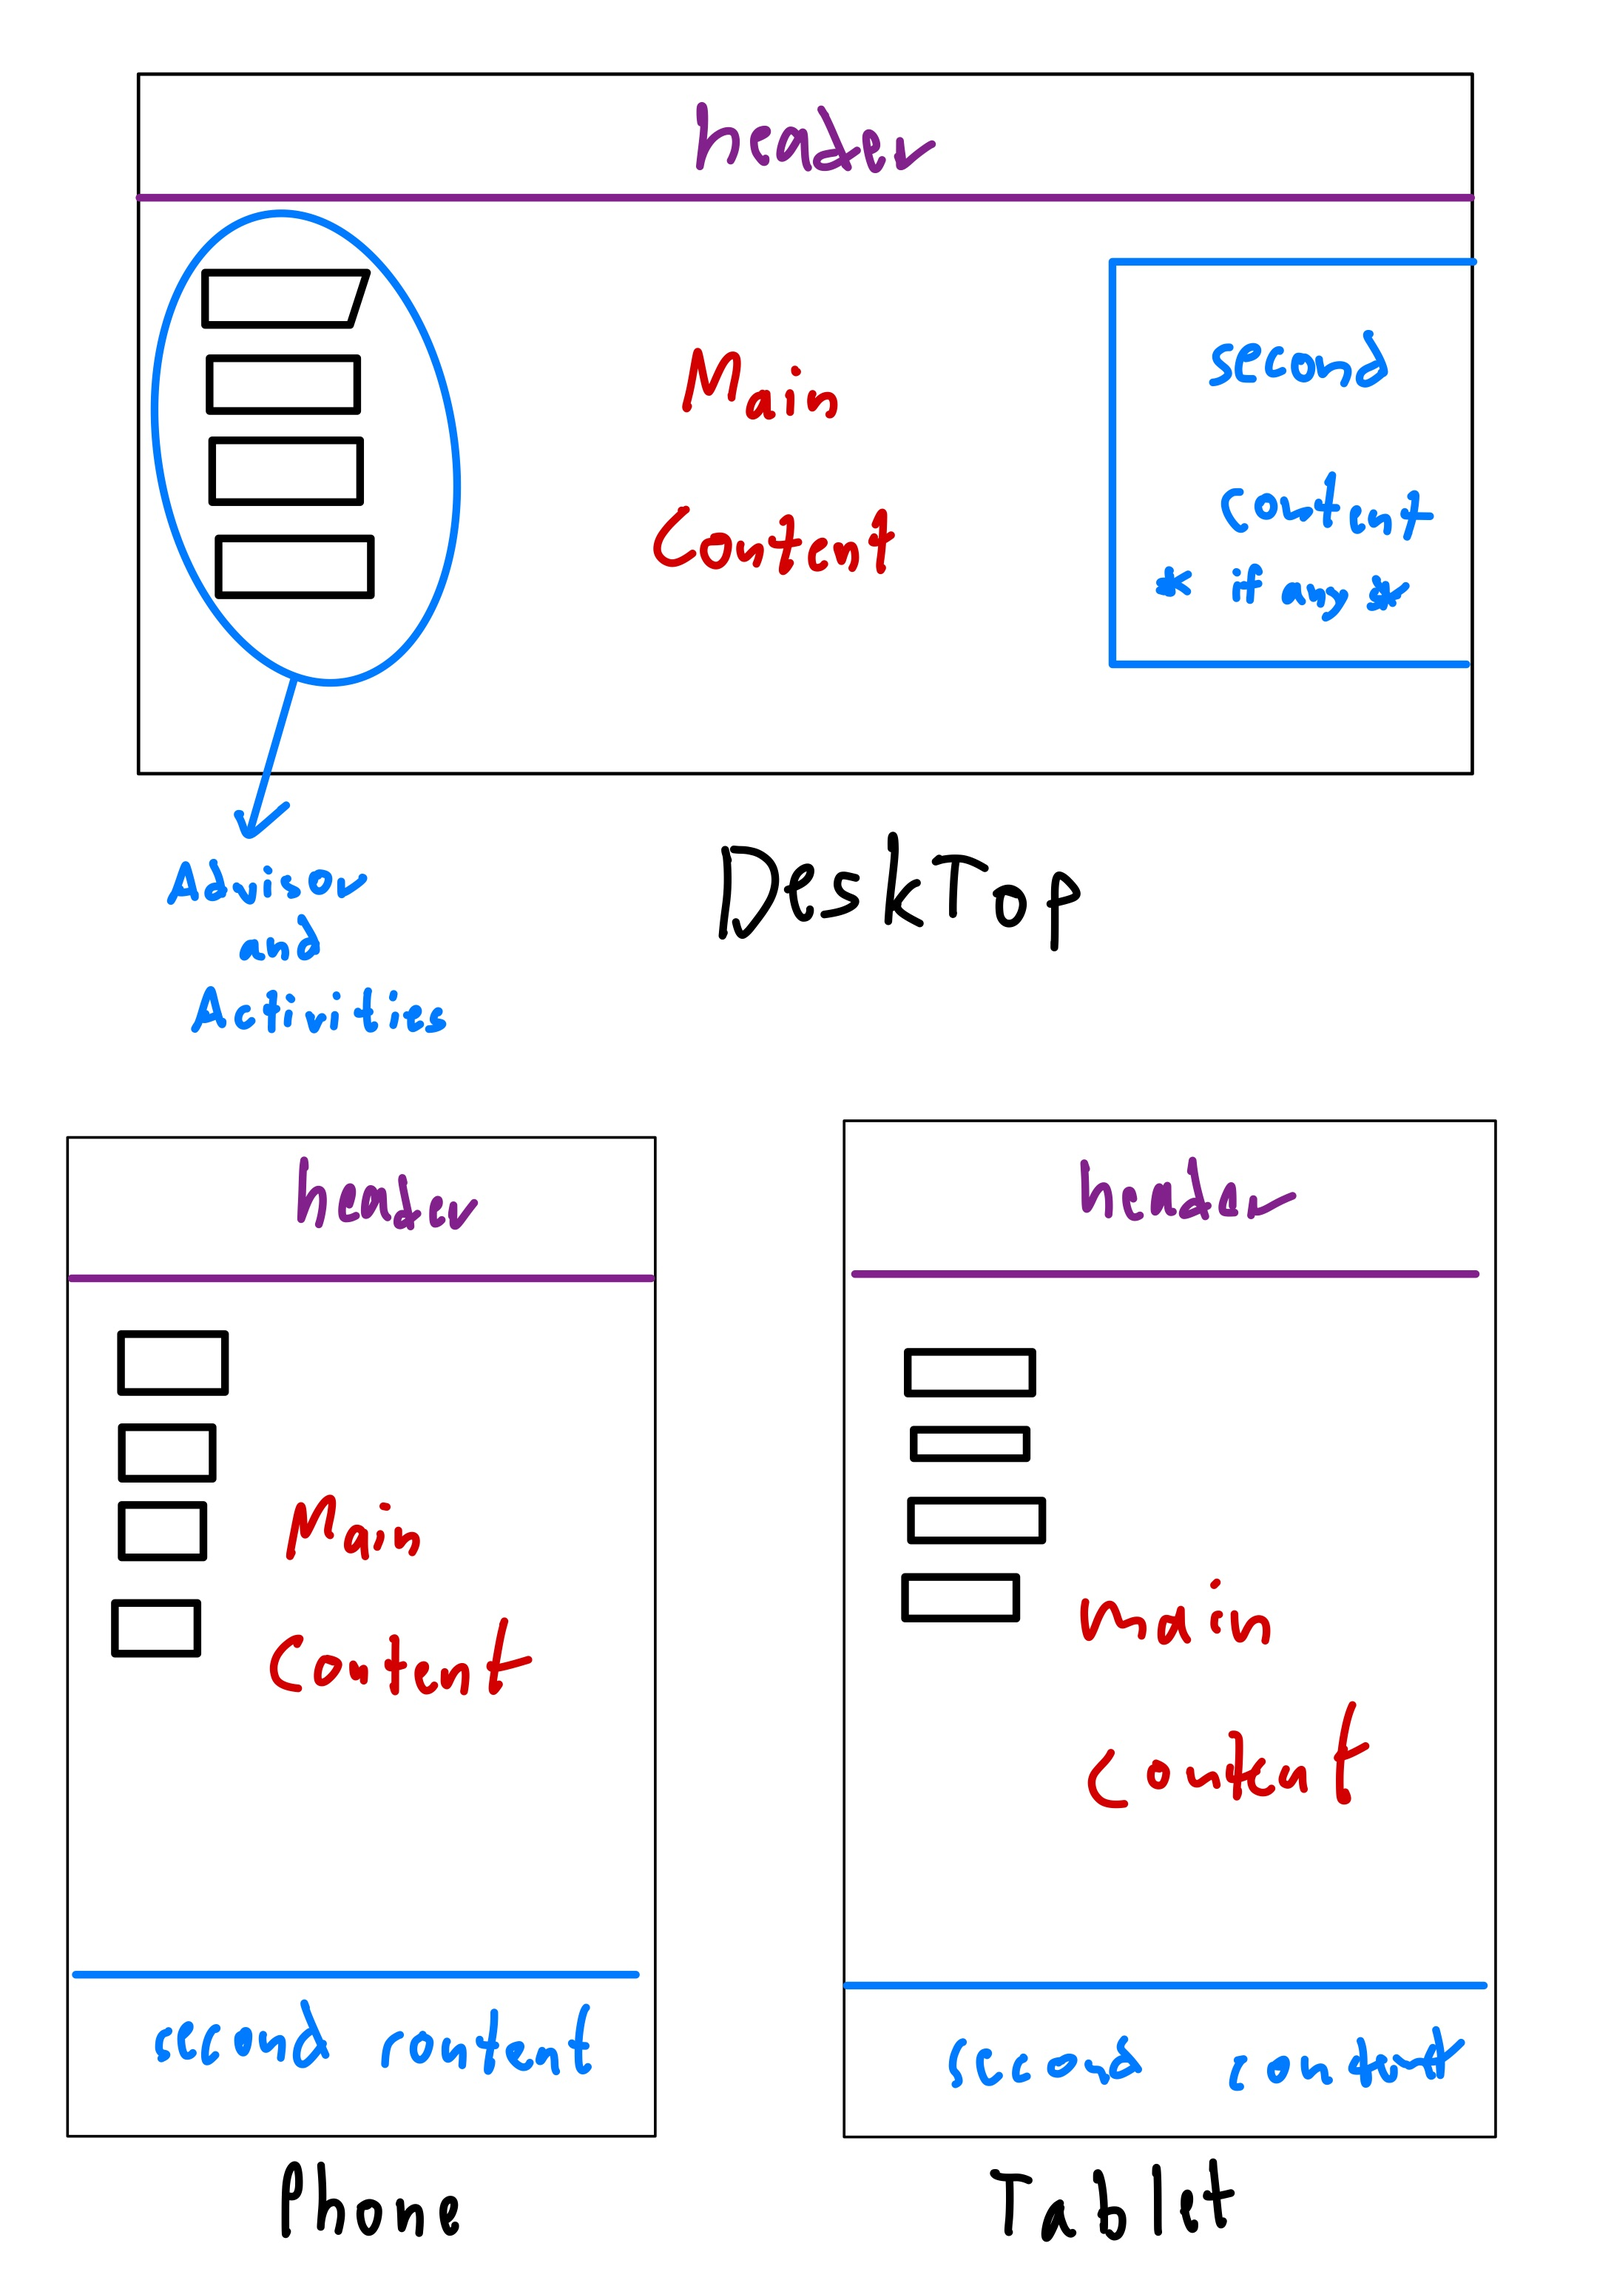
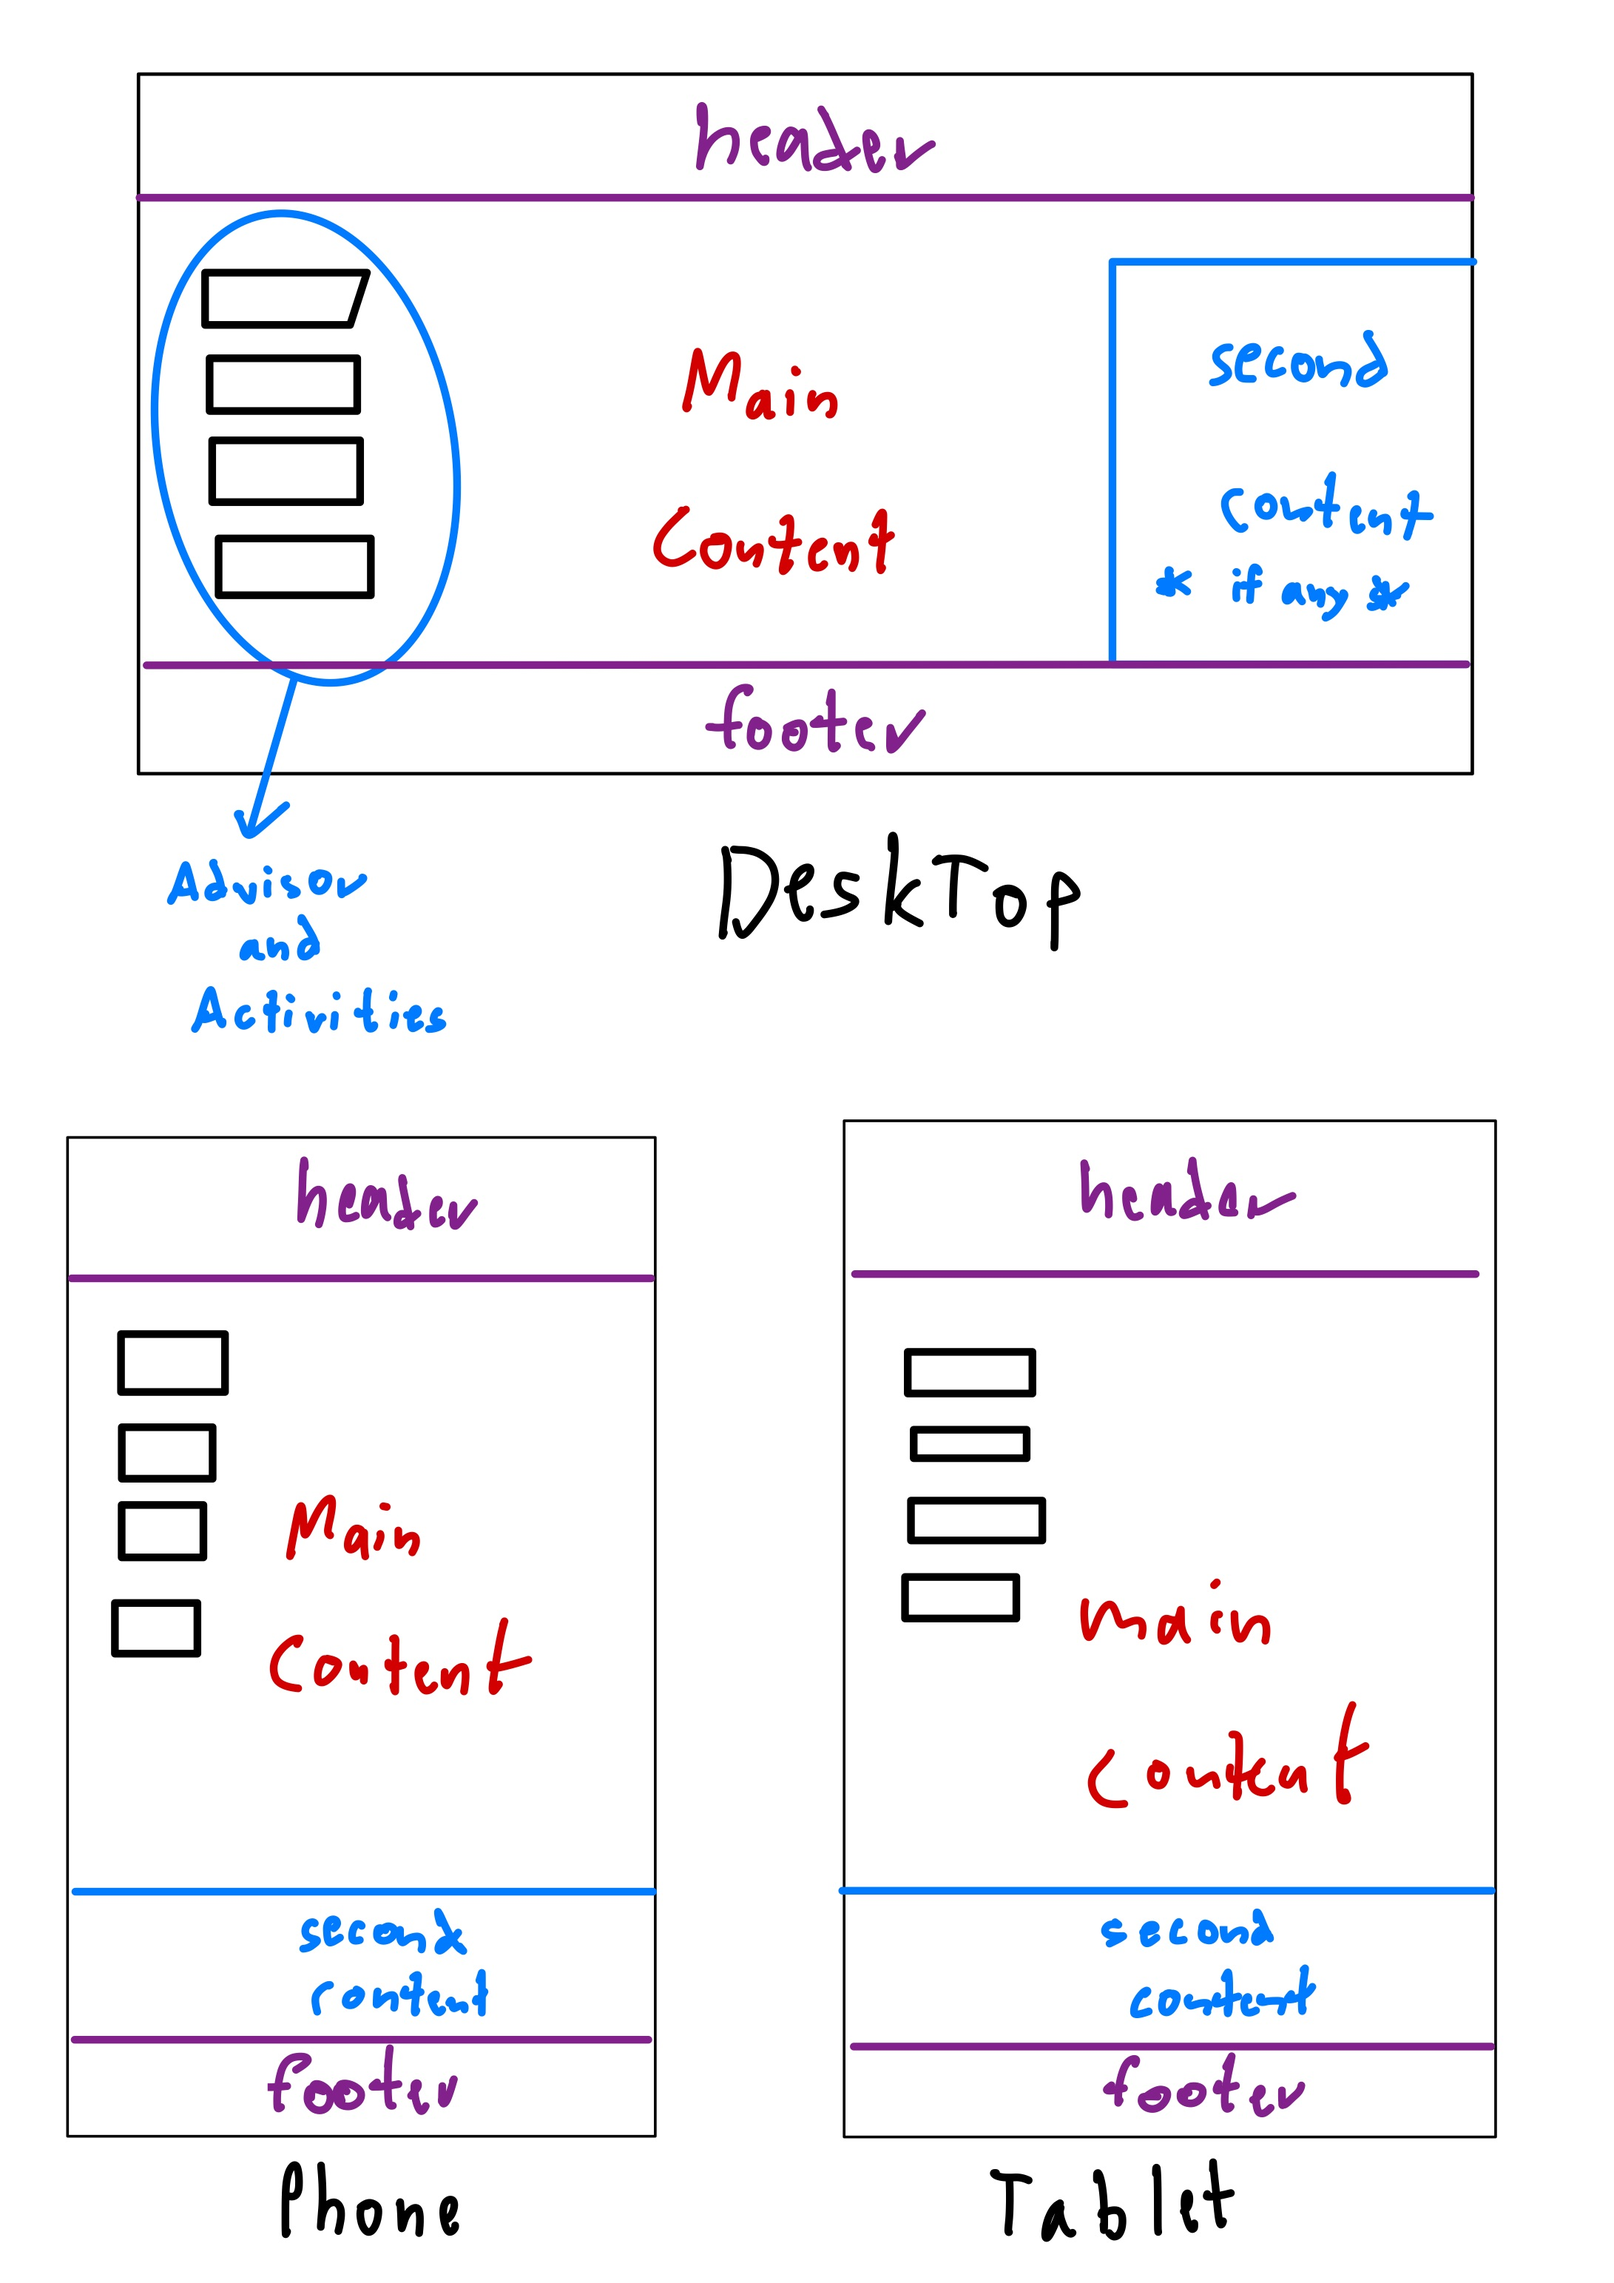
add header

Changed region(s): [[0.5298, 0.8088, 0.9038, 0.9332], [0.0623, 0.8088, 0.4051, 0.9332], [0.0935, 0.28, 0.9038, 0.3422]]

diff --git a/css/style.css b/css/style.css
@@ -10,6 +10,14 @@ body {
   padding: 1;
 }
 
+header {
+  background: #48D1CC;
+  padding: 2em 0 2em 0;
+  text-align: center;
+  color: white;
+  font-size: 24px;
+}
+
 h1 {
   border: 2px solid black;
   margin: 20px;
@@ -74,4 +82,12 @@ h1 {
 
 .intro {
   display: flex;
+}
+
+footer {
+  background: #48D1CC;
+  padding: 2em 0 2em 0;
+  text-align: center;
+  color: white;
+  font-size: 24px;
 }

diff --git a/index.html b/index.html
@@ -11,6 +11,9 @@
 </head>
 
 <body>
+  <header>
+    Welcome to my website
+  </header>
   <div class="container">
     <div class="menu">
       <ul>
@@ -55,6 +58,11 @@
         <li>IG :<a href="https://www.instagram.com/ntn_cd/"> ntn_cd</a></li>
       </ul>
     </div>
+  </div>
+
+  <footer>
+      Thank you for visiting my website
+  </footer>
 </body>
 
 </html>
